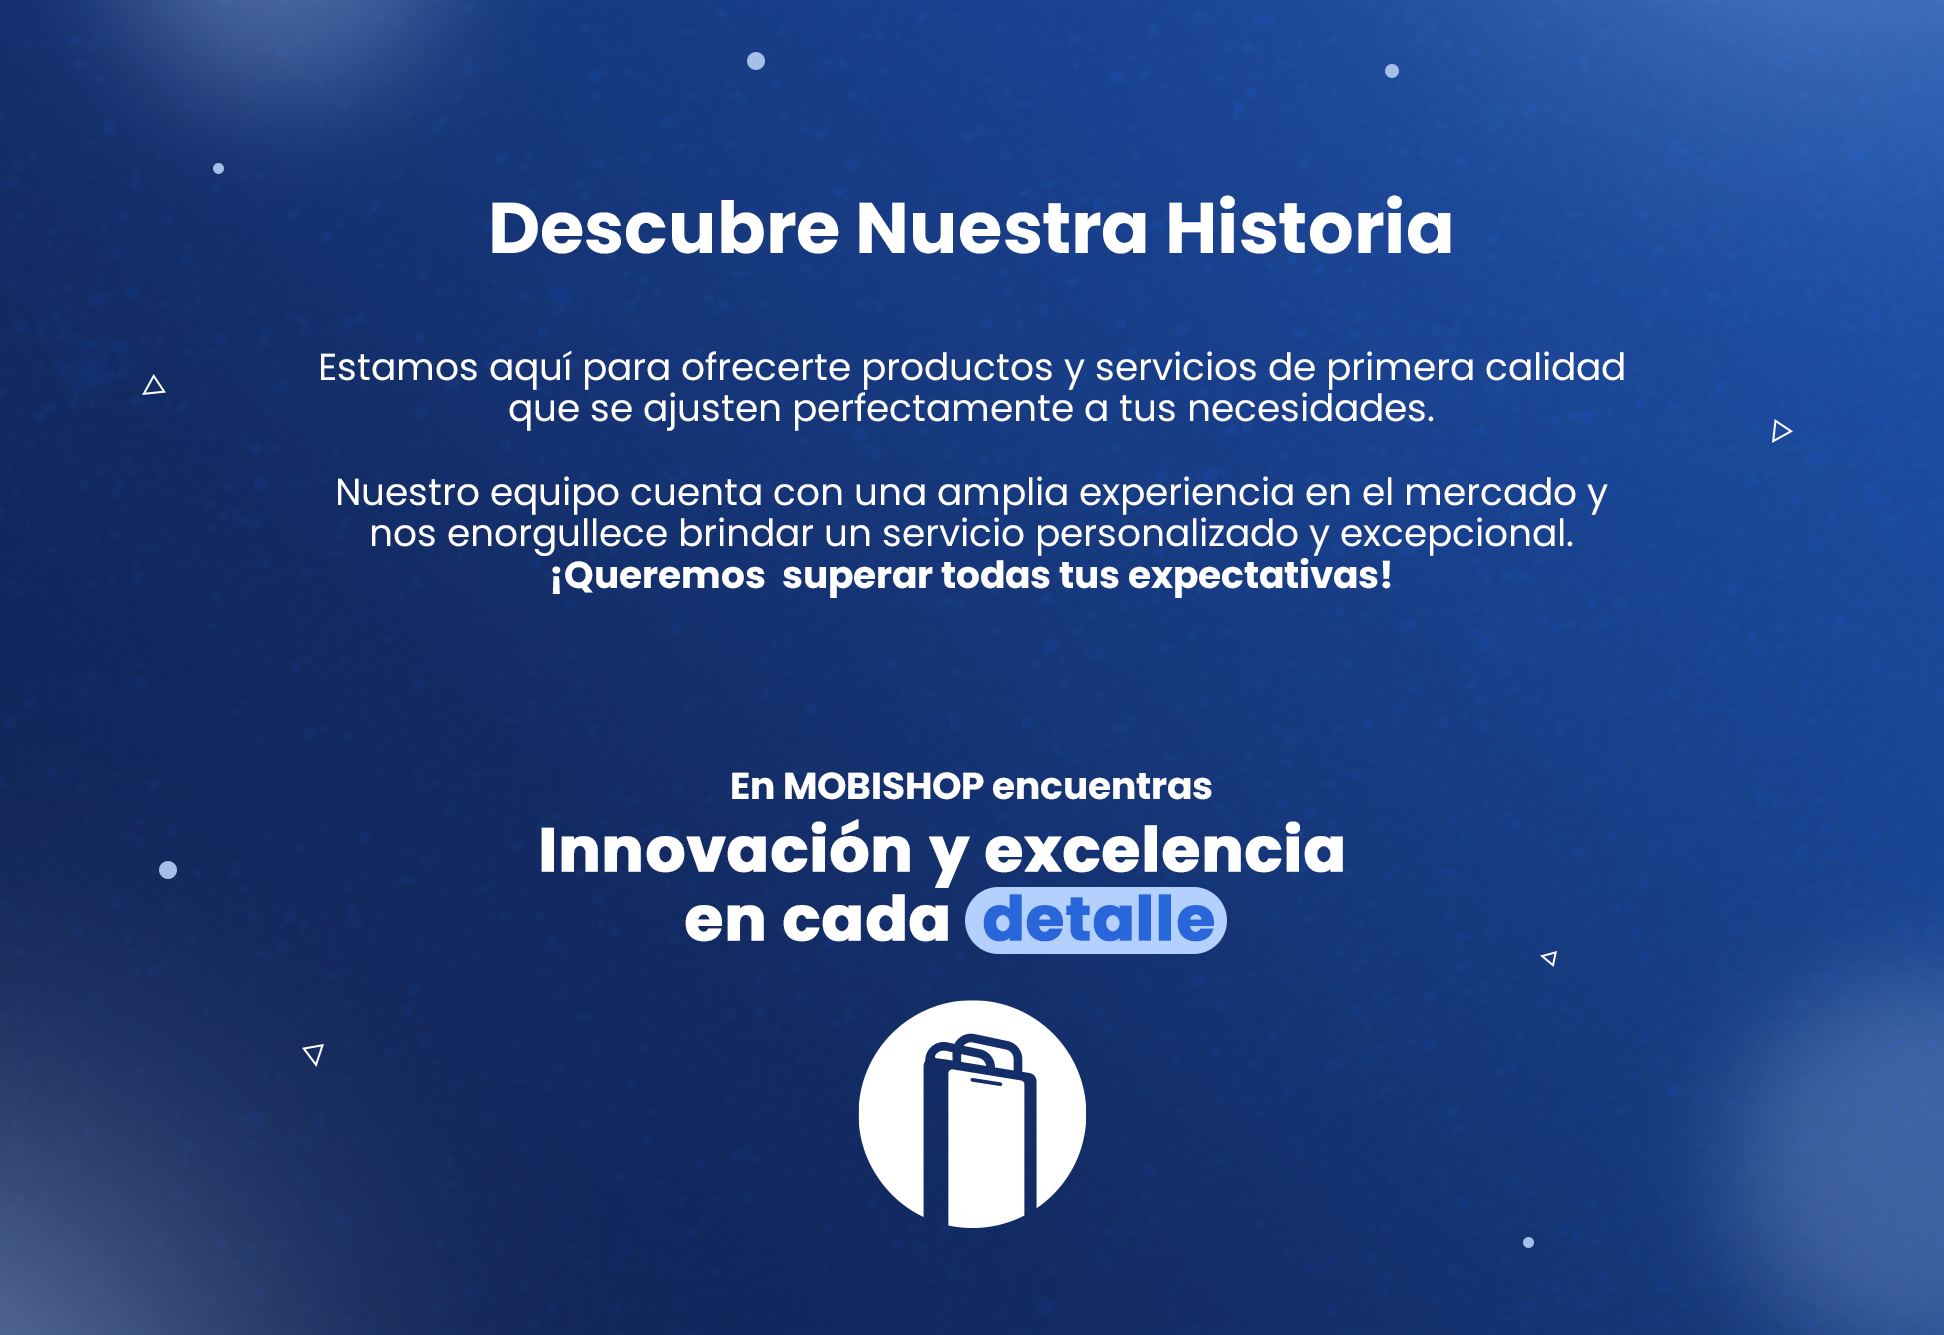
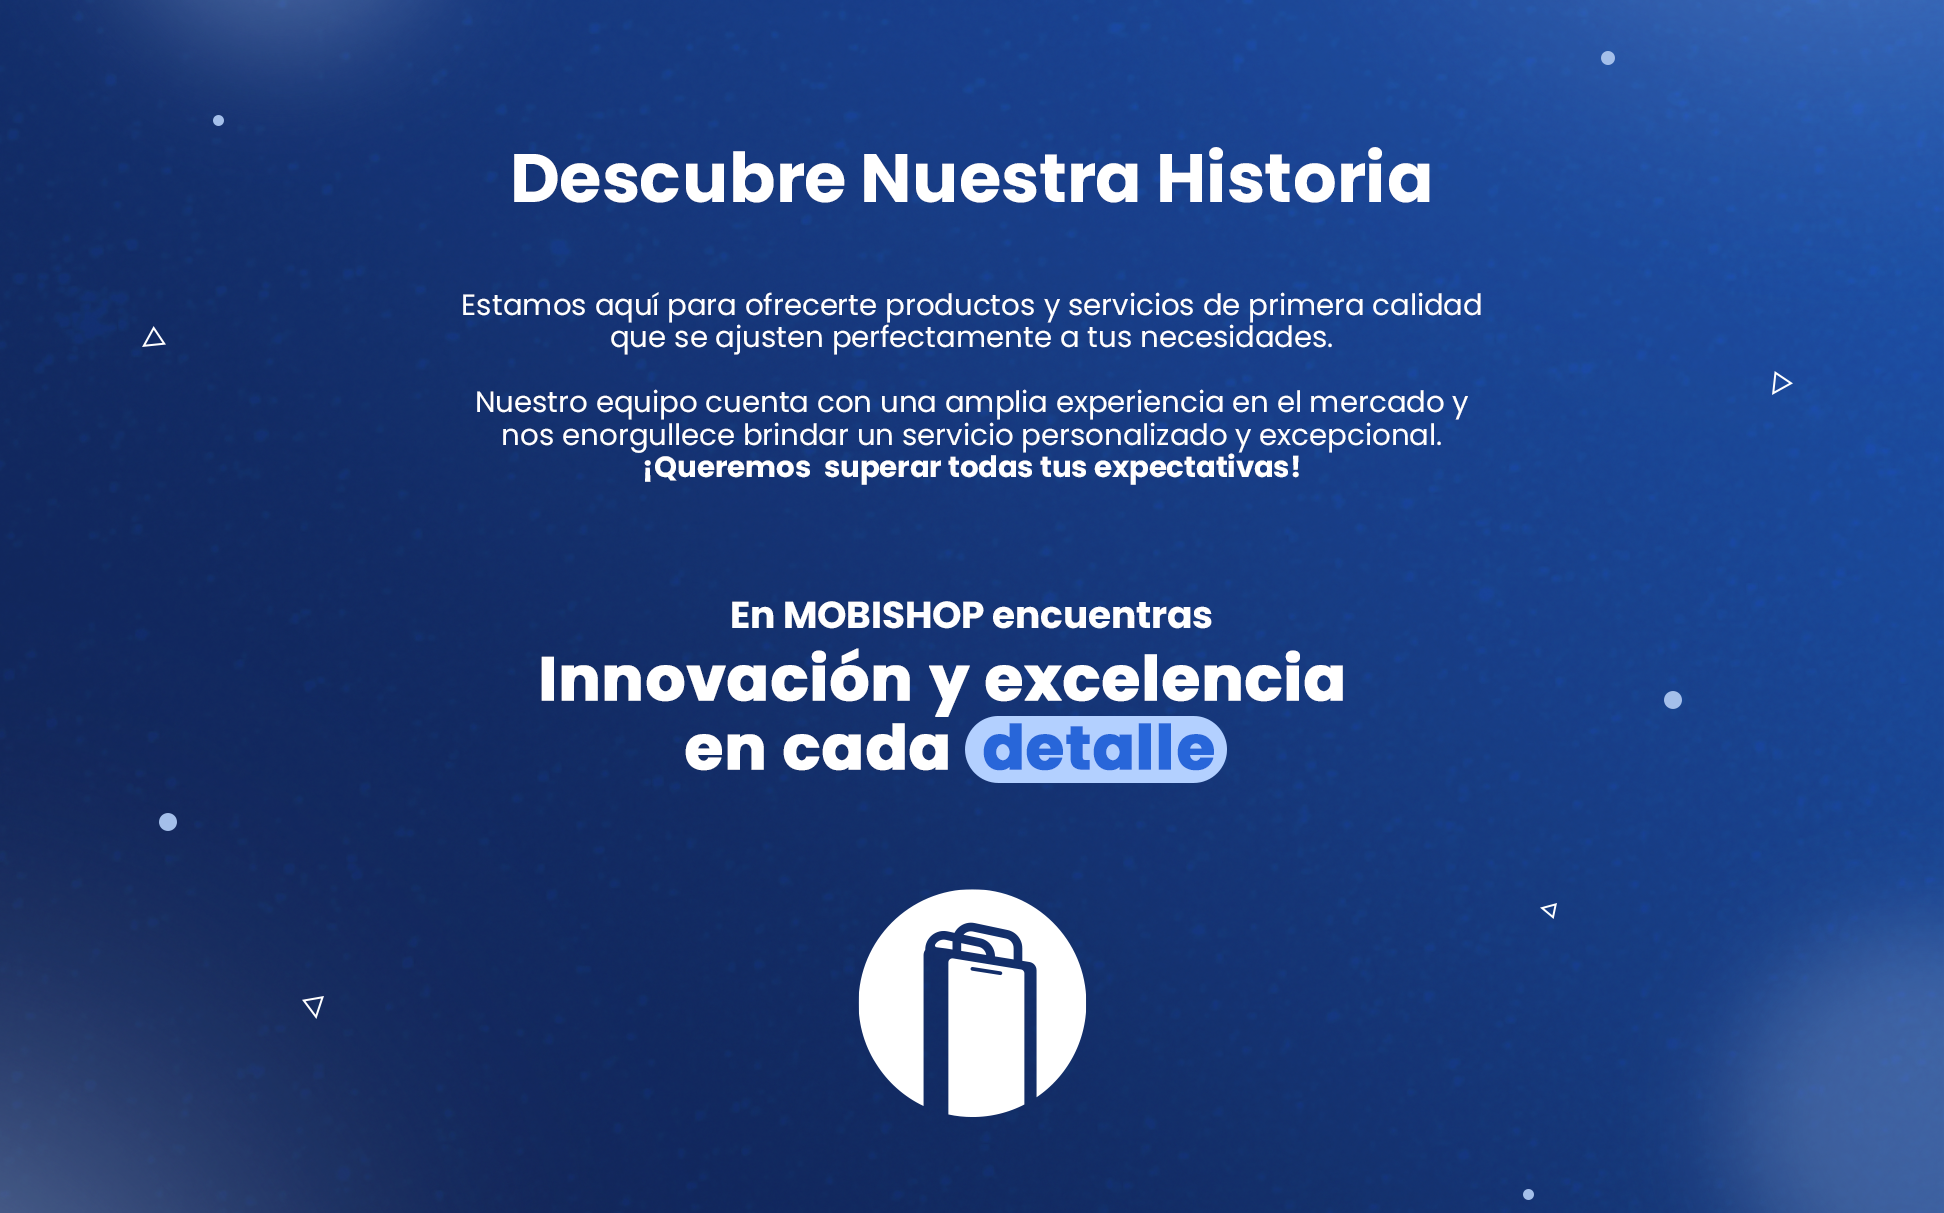
ijjijiii

diff --git a/Ecommerce/src/components/About.module.css b/Ecommerce/src/components/About.module.css
@@ -1,13 +1,12 @@
-.nosotros-section {
+.about-section {
+  height: 100vh;
+  background-image: url(../assets/about-background.jpg); /* Ruta de la imagen de fondo */
+  background-size: cover;
+  background-position: center;
   display: flex;
   align-items: center;
-  height: 100vh;
+  justify-content: center;
+  padding: 0%x;
+  margin: 0%;
 }
 
-.us-image-container {
-  flex: 1;
-  height: 100%;
-  display: flex;
-  justify-content: center;
-  align-items: center;
-}
